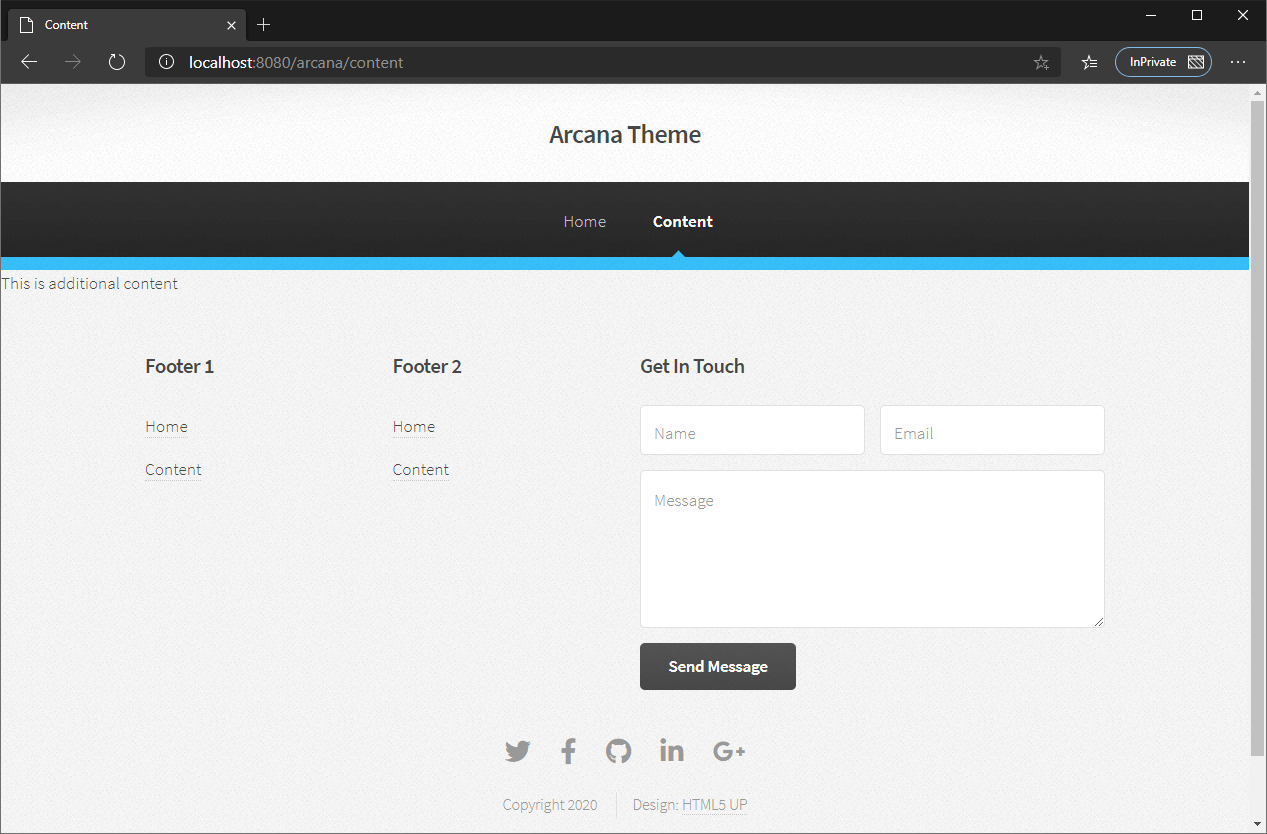
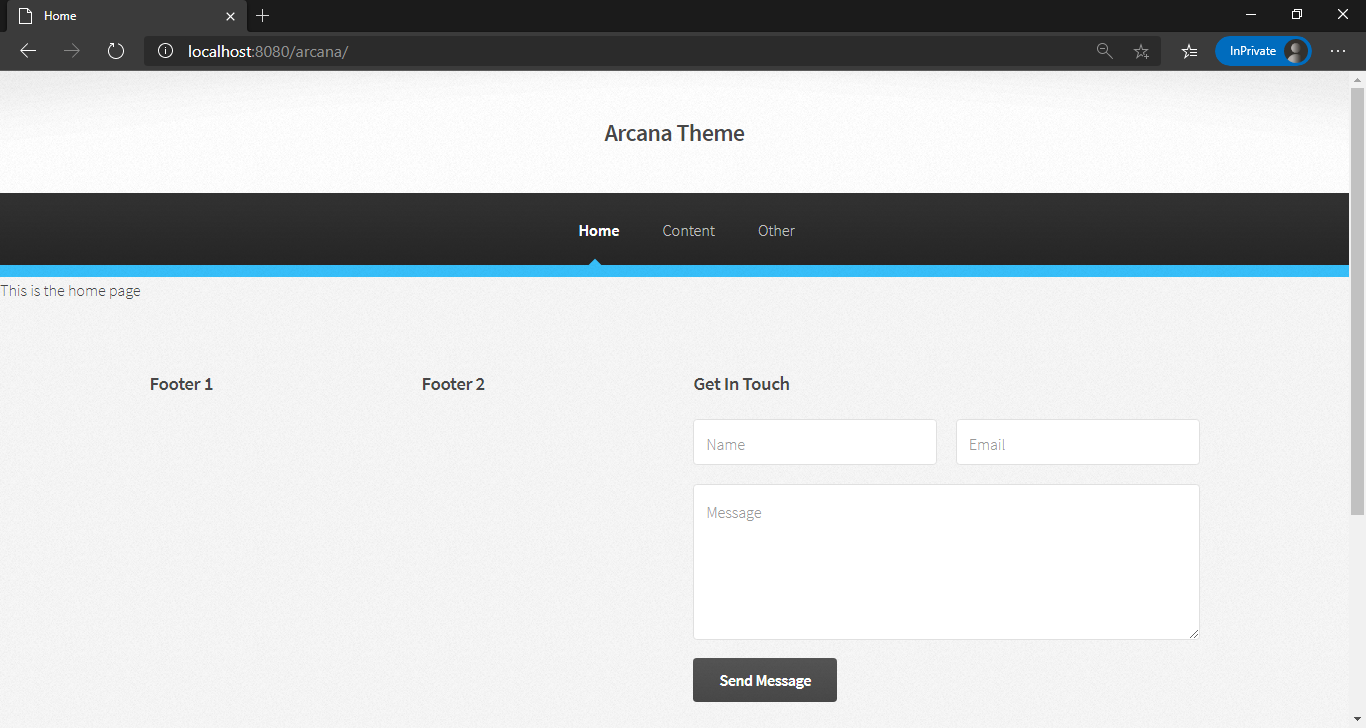
Update themes for GenHTTP 4.0

diff --git a/Lorahost/Template.html b/Lorahost/Template.html
@@ -4,11 +4,15 @@
 
 <head>
 
-    <title>{{ content.title }} - {{ model.title }}</title>
+    <title>{{ content.meta.title }} - {{ model.title }}</title>
 
     <meta charset="UTF-8">
     <meta name="viewport" content="width=device-width, initial-scale=1.0">
     <meta http-equiv="X-UA-Compatible" content="ie=edge">
+
+    {{ if content.meta.description }}
+    <meta name="description" content="{{ content.meta.description }}" />
+    {{ end }}
 
     {{~ for style in styles ~}}
     <link rel="stylesheet" href="{{ route style.path }}" />
@@ -51,7 +55,7 @@
             <nav class="navbar navbar-expand-lg navbar-light">
 
                 <div class="container box_1620">
-                
+
                     <button class="navbar-toggler" type="button" data-toggle="collapse" data-target="#navbarSupportedContent" aria-controls="navbarSupportedContent" aria-expanded="false" aria-label="Toggle navigation">
                         <span class="icon-bar"></span>
                         <span class="icon-bar"></span>
@@ -63,30 +67,31 @@
                         <ul class="nav navbar-nav menu_nav justify-content-end">
 
                             {{~ for item in menu ~}}
-                    
-                                {{ active = (request.target.path | string.contains item.path) || ( ( request.target.path | string.ends_with("/") ) && ( (route item.path) == "./" ) ) }}
-                                                                                 
-                                {{ if item.children }}
-                                    <li class="nav-item submenu dropdown{{ if active }} active{{ end }}">
-                                                                
-                                    <a href="{{ route  item.path }}" class="nav-link dropdown-toggle" data-toggle="dropdown" role="button" aria-haspopup="true"
-                                       aria-expanded="false">{{ item.title }}</a>
 
-                                    <ul class="dropdown-menu">
-                                                                    
-                                    {{ for child in item.children }}         
-                                        <li class="nav-item"><a class="nav-link" href="{{ route child.path }}">{{ child.title }}</a>          
-                                    {{ end }}
+                            {{ active = ( request.target.path | string.contains item.path ) || ( ( route item.path ) == "./" && ( request.target.path | string.ends_with "/" ) ) }}
 
-                                    </ul>
+                            {{ if item.children }}
+                            <li class="nav-item submenu dropdown{{ if active }} active{{ end }}">
+
+                                <a href="{{ route item.path }}" class="nav-link dropdown-toggle" data-toggle="dropdown" role="button" aria-haspopup="true"
+                                   aria-expanded="false">{{ item.details.title }}</a>
+
+                                <ul class="dropdown-menu">
+
+                                    {{ for child in item.children }}
+                                    <li class="nav-item">
+                                        <a class="nav-link" href="{{ route child.path }}">{{ child.details.title }}</a>
+                                        {{ end }}
+
+                                </ul>
                                 {{ else }}
-                                    <li class="nav-item{{ if active }} active{{ end }}"><a class="nav-link" href="{{ route item.path }}">{{ item.title }}</a></li>                                                
-                                {{ end }}
+                            <li class="nav-item{{ if active }} active{{ end }}"><a class="nav-link" href="{{ route item.path }}">{{ item.details.title }}</a></li>
+                            {{ end }}
 
                             {{ end }}
 
                         </ul>
-                    
+
                     </div>
 
                 </div>
@@ -97,31 +102,31 @@
 
     </header>
 
-    {{ isRoot = ( ( request.target.path | string.ends_with("/") ) && ( (route "{website}") == "./" ) )}}
+    {{ isRoot = ( ( request.target.path | string.ends_with("/") ) && ( (route "{website}") == "./" ) ) }}
 
     <section class="hero-banner {{ if !isRoot }}hero-banner-sm {{ end }} text-center">
 
         <div class="container">
 
             {{ if isRoot }}
-                <h1>{{ model.title }}</h1>
+            <h1>{{ model.title }}</h1>
             {{ else }}
-                <h1>{{ content.title }}</h1>
+            <h1>{{ content.meta.title }}</h1>
             {{ end }}
 
             {{ if isRoot }}
-                {{ if model.subtitle }}
-                    <p class="hero-subtitle">{{ model.subtitle }}</p>
-                {{end }}
-                {{ if model.action }}
-                    <a class="button button-outline" href="{{ route model.action }}">{{ model.action_title }}</a>
-                {{ end}}
+            {{ if model.subtitle }}
+            <p class="hero-subtitle">{{ model.subtitle }}</p>
+            {{end }}
+            {{ if model.action }}
+            <a class="button button-outline" href="{{ route model.action }}">{{ model.action_title }}</a>
+            {{ end}}
             {{ end }}
 
         </div>
 
     </section>
-    
+
     {{ content.content }}
 
     <footer class="footer-area section-gap">
@@ -133,7 +138,7 @@
                 <p class="footer-text m-0 col-lg-8 col-md-12">
 
                     {{ if model.copyright }}
-                        {{ model.copyright }} | 
+                    {{ model.copyright }} |
                     {{ end }}
 
                     This template is made with <i class="ti-heart" aria-hidden="true"></i> by <a href="https://colorlib.com">Colorlib</a>
@@ -145,9 +150,9 @@
         </div>
 
     </footer>
-    
+
     {{~ for script in scripts ~}}
-        <script src="{{ route script.path }}"></script>
+    <script src="{{ route script.path }}"></script>
     {{~ end ~}}
 
 </body>

diff --git a/Arcana/Template.html b/Arcana/Template.html
@@ -4,10 +4,14 @@
 
 <head>
 
-    <title>{{ content.title }}</title>
+    <title>{{ content.meta.title }}</title>
 
     <meta charset="utf-8" />
     <meta name="viewport" content="width=device-width, initial-scale=1, user-scalable=no" />
+
+    {{ if content.meta.description }}
+    <meta name="description" content="{{ content.meta.description }}" />
+    {{ end }}
 
     {{~ for style in styles ~}}
     <link rel="stylesheet" href="{{ route style.path }}" />
@@ -35,25 +39,25 @@
                 <ul>
 
                     {{~ for item in menu ~}}
-                    
-                         {{ active = (request.target.path | string.contains item.path) || ( ( request.target.path | string.ends_with("/") ) && ( (route item.path) == "./" ) ) }}
 
-                         <li {{ if active }}class="current"{{ end }}>
-                                                     
-                            {{ if item.children }}
-                                <a href="{{ route item.path }}">{{ item.title }}</a>   
-                                <ul>
-                                {{ for child in item.children }}                       
-                                    <li>
-                                        <a href="{{ route child.path }}">{{ child.title }}</a>
-                                    </li>
-                                {{ end }}
-                                </ul>
-                            {{ else }}
-                                <a href="{{ route item.path }}" {{ if active }}class="current"{{ end }}>{{ item.title }}</a>                                                        
+                    {{ active = ( request.target.path | string.contains item.path ) || ( ( route item.path ) == "./" && ( request.target.path | string.ends_with "/" ) ) }}
+
+                    <li {{ if active }} class="current" {{ end }}>
+
+                        {{ if item.children }}
+                        <a href="{{ route item.path }}">{{ item.details.title }}</a>
+                        <ul>
+                            {{ for child in item.children }}
+                            <li>
+                                <a href="{{ route child.path }}">{{ child.details.title }}</a>
+                            </li>
                             {{ end }}
+                        </ul>
+                        {{ else }}
+                        <a href="{{ route item.path }}" {{ if active }} class="current" {{ end }}>{{ item.details.title }}</a>
+                        {{ end }}
 
-                        </li>
+                    </li>
 
                     {{~ end ~}}
 

diff --git a/Demo/Program.cs b/Demo/Program.cs
@@ -2,10 +2,17 @@
 
 using GenHTTP.Api.Content;
 using GenHTTP.Api.Content.Websites;
-using GenHTTP.Core.Hosting;
 
-using GenHTTP.Modules.Core;
+using GenHTTP.Engine;
+
+using GenHTTP.Modules.IO;
 using GenHTTP.Modules.Scriban;
+using GenHTTP.Modules.Practices;
+using GenHTTP.Modules.Layouting;
+using GenHTTP.Modules.Websites;
+using GenHTTP.Modules.Placeholders;
+using GenHTTP.Modules.Core;
+
 using GenHTTP.Modules.Themes.Arcana;
 using GenHTTP.Modules.Themes.Lorahost;
 
@@ -16,7 +23,8 @@ namespace GenHTTP.Themes.Demo
     {
         public static int Main(string[] args)
         {
-            return new ServerHost().Port(8080)
+            
+            return Host.Create()
                                    .Defaults()
                                    .Console()
 #if DEBUG
@@ -28,18 +36,36 @@ namespace GenHTTP.Themes.Demo
 
         private static IHandlerBuilder Setup()
         {
+            var index = Page.From("Home", "This is the home page")
+                            .Description("Home Page");
+
+            var additional = Page.From("Content", "This is additional content")
+                                 .Description("Additional Content");
+
             var content = Layout.Create()
-                                .Index(Page.From("Home", "This is the home page"))
-                                .Add("content", Page.From("Content", "This is additional content"));
+                                .Add("one", additional)
+                                .Add("two", additional)
+                                .Add("three", additional);
+
+            var root = Layout.Create()
+                                .Index(index)
+                                .Add("content", content)
+                                .Add("other", additional);
 
             var main = Layout.Create()
                              .Index(ModScriban.Page(Data.FromResource("Index.html")).Title("GenHTTP Themes"));
 
+            var menu = Menu.Empty()
+                           .Add("{website}", "Home")
+                           .Add("content/", "Content", new List<(string, string)> { ("one/", "One"), ("two/", "Two"), ("three/", "Three") })
+                           .Add("other", "Other");
+                        
             foreach (var entry in GetThemes())
             {
                 var website = Website.Create()
                                      .Theme(entry.Theme)
-                                     .Content(content);
+                                     .Menu(menu)
+                                     .Content(root);
 
                 main.Add(entry.Name, website);
             }

diff --git a/Lorahost/LorahostTheme.cs b/Lorahost/LorahostTheme.cs
@@ -5,7 +5,8 @@ using GenHTTP.Api.Content.Templating;
 using GenHTTP.Api.Content.Websites;
 using GenHTTP.Api.Protocol;
 
-using GenHTTP.Modules.Core;
+using GenHTTP.Modules.IO;
+using GenHTTP.Modules.Layouting;
 using GenHTTP.Modules.Scriban;
 
 namespace GenHTTP.Modules.Themes.Lorahost

diff --git a/Arcana/ArcanaTheme.cs b/Arcana/ArcanaTheme.cs
@@ -5,7 +5,7 @@ using GenHTTP.Api.Content.Templating;
 using GenHTTP.Api.Content.Websites;
 using GenHTTP.Api.Protocol;
 
-using GenHTTP.Modules.Core;
+using GenHTTP.Modules.IO;
 using GenHTTP.Modules.Scriban;
 
 namespace GenHTTP.Modules.Themes.Arcana
